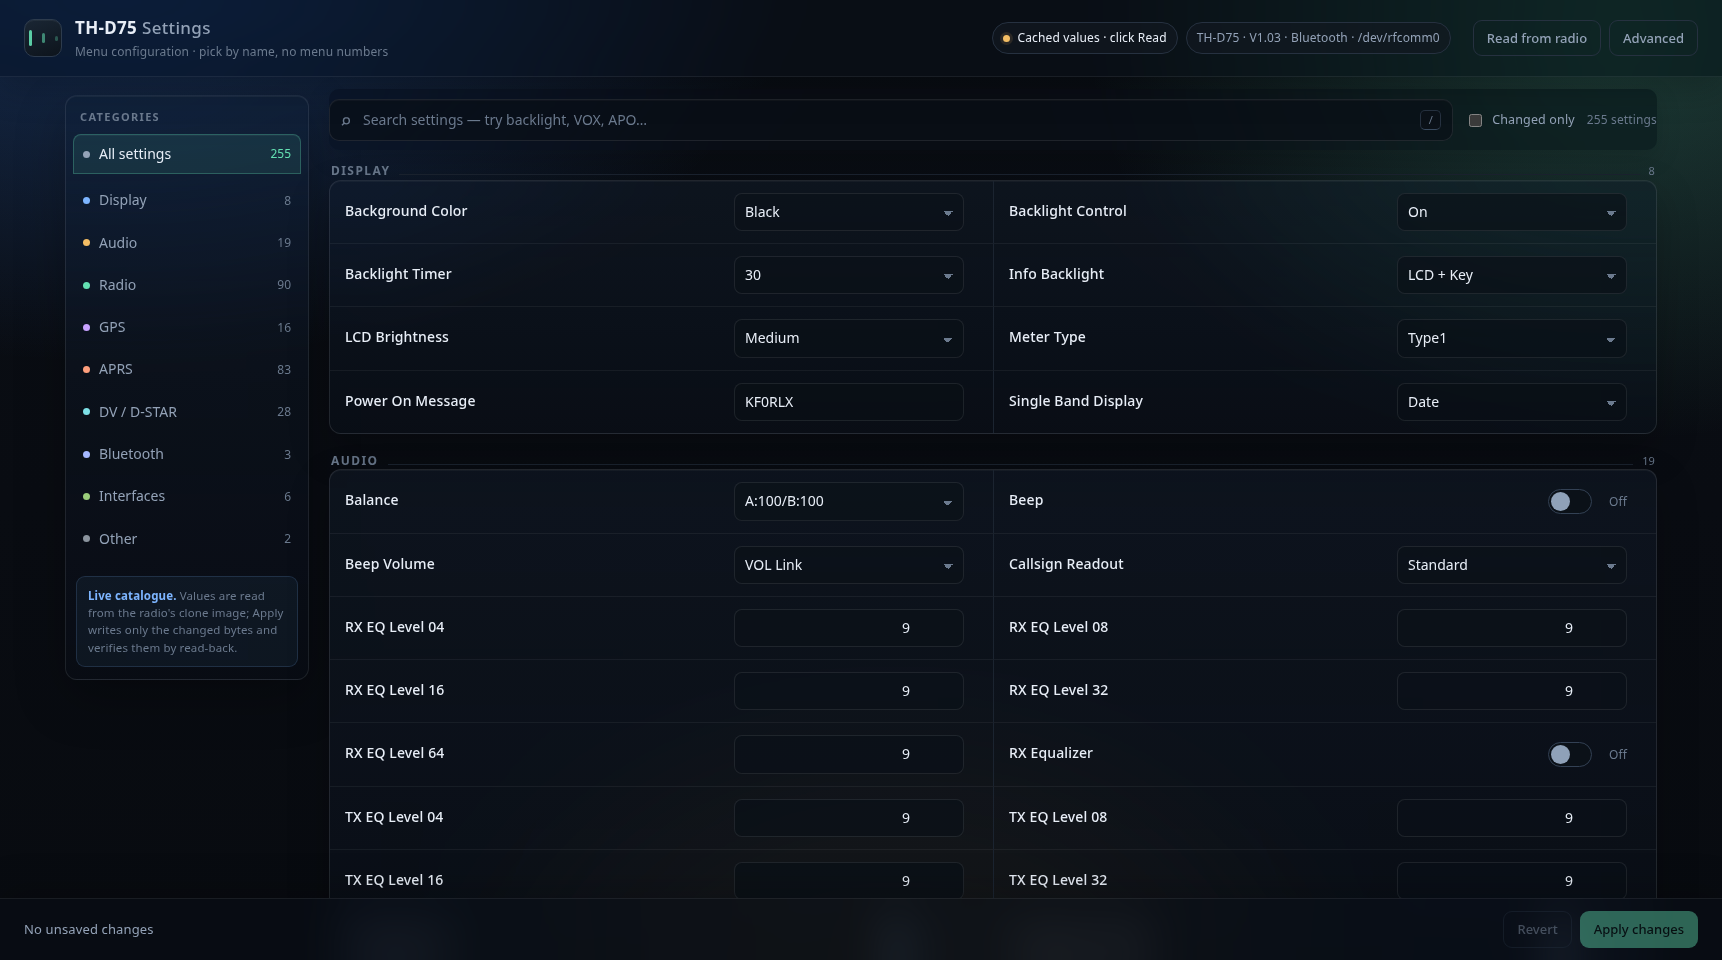
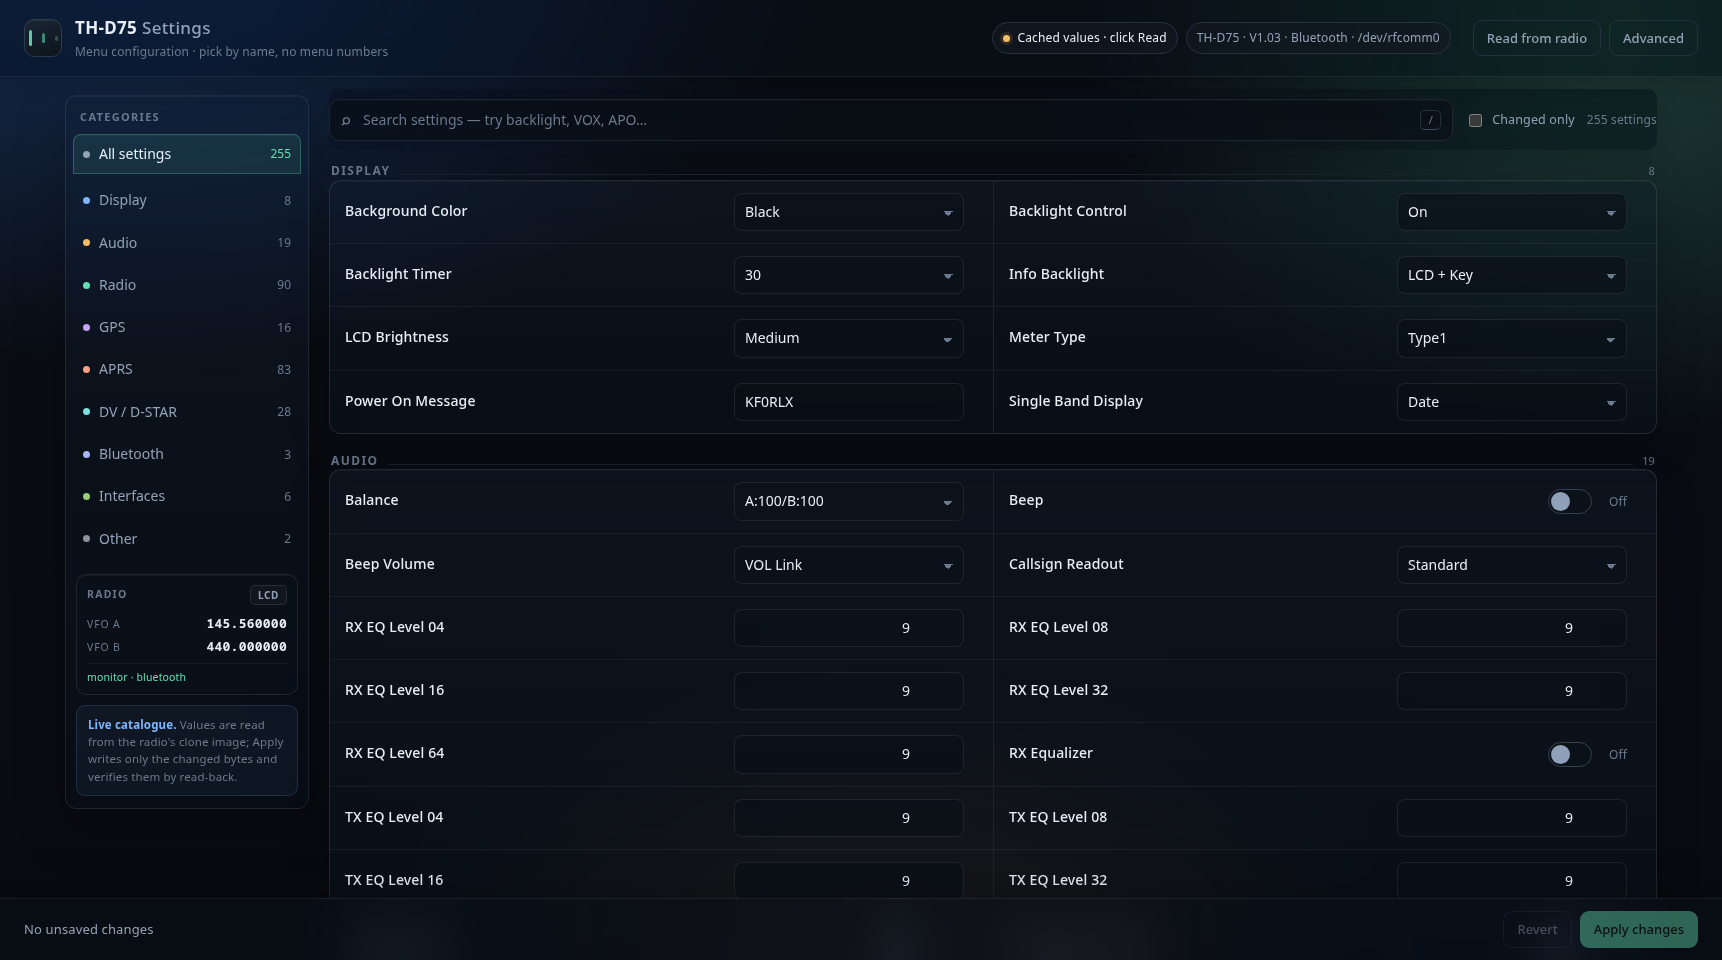
feat: add live VFO and LCD panel to settings UI

Changed region(s): [[0.0616, 0.5938, 0.1847, 0.7188], [0.0308, 0.75, 0.1539, 0.8125]]

diff --git a/settings-ui/app.js b/settings-ui/app.js
@@ -44,9 +44,16 @@ const els = {
   connectionChip: document.getElementById("connection-chip"),
   connectionText: document.getElementById("connection-text"),
   radioMeta: document.getElementById("radio-meta"),
-  exitSettings: document.getElementById("exit-settings")
+  exitSettings: document.getElementById("exit-settings"),
+  vfoA: document.getElementById("vfo-a"),
+  vfoB: document.getElementById("vfo-b"),
+  vfoStatus: document.getElementById("vfo-status"),
+  screenToggle: document.getElementById("screen-toggle"),
+  screenWrap: document.getElementById("screen-wrap"),
+  screenImg: document.getElementById("screen-img")
 };
 let sessionActive = false;
+let screenVisible = false;
 
 for (const setting of state.settings) {
   state.original.set(setting.id, cloneValue(setting.value));
@@ -477,6 +484,58 @@ async function loadFromApi() {
   }
 }
 
+function formatHz(raw) {
+  const n = Number(raw);
+  if (!Number.isFinite(n) || n <= 0) return "—";
+  return (n / 1000000).toFixed(6);
+}
+
+function setVfo(which, raw) {
+  const el = which === "a" ? els.vfoA : els.vfoB;
+  if (el) el.textContent = formatHz(raw);
+}
+
+function setVfoStatus(text, live) {
+  if (!els.vfoStatus) return;
+  els.vfoStatus.textContent = text;
+  els.vfoStatus.classList.toggle("live", Boolean(live));
+}
+
+async function pollMonitor() {
+  if (sessionActive) {
+    setVfoStatus("monitor paused", false);
+    return;
+  }
+  try {
+    const resp = await fetch("/api/monitor/state", {cache: "no-store"});
+    if (!resp.ok) throw new Error(`monitor ${resp.status}`);
+    const data = await resp.json();
+    const fields = data.fields || {};
+    setVfo("a", fields.vfo_a_hz?.value);
+    setVfo("b", fields.vfo_b_hz?.value);
+    setVfoStatus(data.connected ? `monitor · ${data.transport || "live"}` : "monitor offline", Boolean(data.connected));
+  } catch (error) {
+    setVfo("a", null);
+    setVfo("b", null);
+    setVfoStatus("monitor unavailable", false);
+  }
+}
+
+function refreshScreen() {
+  if (!screenVisible || !els.screenImg) return;
+  els.screenImg.src = `/api/monitor/screen.png?t=${Date.now()}`;
+}
+
+function toggleScreen() {
+  screenVisible = !screenVisible;
+  if (els.screenWrap) els.screenWrap.hidden = !screenVisible;
+  if (els.screenToggle) {
+    els.screenToggle.setAttribute("aria-pressed", String(screenVisible));
+    els.screenToggle.textContent = screenVisible ? "Hide" : "LCD";
+  }
+  if (screenVisible) refreshScreen();
+}
+
 async function pollStatus() {
   try {
     const resp = await fetch("/api/status", {cache: "no-store"});
@@ -594,6 +653,9 @@ if (params.get("changed") === "1") {
   state.changedOnly = true;
   els.changedOnly.checked = true;
 }
+if (params.get("screen") === "1") {
+  toggleScreen();
+}
 if (params.get("advanced") === "1") {
   state.advanced = true;
   document.body.classList.add("advanced");
@@ -607,7 +669,12 @@ window.addEventListener("pagehide", () => {
 });
 setInterval(pollStatus, 15000);
 
+els.screenToggle?.addEventListener("click", toggleScreen);
+setInterval(pollMonitor, 1000);
+setInterval(() => { if (screenVisible) refreshScreen(); }, 1000);
+
 renderCategories();
 renderList();
 updateChangeUI();
 loadFromApi();
+pollMonitor();

diff --git a/settings-ui/styles.css b/settings-ui/styles.css
@@ -355,3 +355,52 @@ input[type="number"] { text-align: right; padding-right: 38px; }
     background: rgba(18, 24, 33, .96);
   }
 }
+
+/* Live VFO / LCD panel */
+.radio-panel {
+  margin: 6px 10px 10px;
+  padding: 10px 10px 9px;
+  border: 1px solid rgba(255, 255, 255, .09);
+  border-radius: 10px;
+  background: rgba(10, 15, 22, .34);
+  -webkit-backdrop-filter: blur(16px) saturate(135%);
+  backdrop-filter: blur(16px) saturate(135%);
+  box-shadow: inset 0 1px 0 rgba(255, 255, 255, .04);
+}
+.radio-panel-head {
+  display: flex; align-items: center; justify-content: space-between;
+  margin-bottom: 7px;
+  color: var(--faint); font-size: 10.5px; font-weight: 650;
+  text-transform: uppercase; letter-spacing: .12em;
+}
+.mini-btn {
+  padding: 3px 7px; border-radius: 5px;
+  border: 1px solid rgba(255,255,255,.10);
+  background: rgba(255,255,255,.03);
+  color: var(--muted); font-size: 10px; line-height: 1.2;
+  text-transform: uppercase; letter-spacing: .06em;
+}
+.mini-btn:hover { color: var(--text); border-color: rgba(99,224,178,.35); }
+.mini-btn[aria-pressed="true"] { color: var(--accent); border-color: rgba(99,224,178,.4); }
+.vfo-row { display: flex; align-items: baseline; justify-content: space-between; gap: 8px; padding: 2px 0; }
+.vfo-label { color: var(--faint); font-size: 10.5px; letter-spacing: .08em; }
+.vfo-freq {
+  color: var(--text); font-family: ui-monospace, SFMono-Regular, Menlo, monospace;
+  font-size: 13px; font-weight: 600; font-variant-numeric: tabular-nums;
+  letter-spacing: .02em;
+}
+.radio-panel-status {
+  margin-top: 5px; padding-top: 6px; border-top: 1px solid rgba(255,255,255,.055);
+  color: var(--faint); font-size: 10.5px;
+}
+.radio-panel-status.live { color: var(--accent); }
+.screen-wrap { margin-top: 8px; }
+.screen-wrap img {
+  display: block; width: 100%; height: auto;
+  border: 1px solid rgba(255,255,255,.12); border-radius: 6px;
+  background: #05080c; image-rendering: pixelated;
+}
+@media (max-width: 820px) {
+  .radio-panel { margin: 8px 8px 10px; }
+  .screen-wrap img { max-width: 240px; margin: 0 auto; }
+}

diff --git a/settings-ui/index.html b/settings-ui/index.html
@@ -34,6 +34,20 @@
     <aside class="sidebar" aria-label="Categories">
       <div class="sidebar-head">Categories</div>
       <nav id="category-nav" class="category-nav"></nav>
+
+      <section class="radio-panel" aria-label="Live radio status">
+        <div class="radio-panel-head">
+          <span>Radio</span>
+          <button class="mini-btn" id="screen-toggle" type="button" aria-pressed="false">LCD</button>
+        </div>
+        <div class="vfo-row"><span class="vfo-label">VFO A</span><b class="vfo-freq" id="vfo-a">—</b></div>
+        <div class="vfo-row"><span class="vfo-label">VFO B</span><b class="vfo-freq" id="vfo-b">—</b></div>
+        <div class="radio-panel-status" id="vfo-status">monitor</div>
+        <div class="screen-wrap" id="screen-wrap" hidden>
+          <img id="screen-img" alt="Live TH-D75 LCD" width="240" height="180">
+        </div>
+      </section>
+
       <div class="sidebar-note">
         <strong>Live catalogue.</strong> Values are read from the radio's clone
         image; Apply writes only the changed bytes and verifies them by read-back.

diff --git a/settings-ui/server.py b/settings-ui/server.py
@@ -19,6 +19,7 @@ import time
 from datetime import datetime
 from http.server import SimpleHTTPRequestHandler, ThreadingHTTPServer
 from urllib.parse import urlparse
+import urllib.request
 
 import serial
 
@@ -55,6 +56,7 @@ def _detect_transport(path: str) -> str:
 TRANSPORT = _detect_transport(SERIAL)
 AUTO_RELEASE = os.environ.get("D75_AUTO_RELEASE", "1").strip().lower() not in ("0", "false", "no")
 MONITOR_UNIT = os.environ.get("D75_MONITOR_UNIT", "d75mon")
+MONITOR_URL = os.environ.get("D75_MONITOR_URL", "http://127.0.0.1:8099").rstrip("/")
 HOST = os.environ.get("D75SETTINGS_HOST", "127.0.0.1")
 PORT = int(os.environ.get("D75SETTINGS_PORT", "8098"))
 IDLE_RELEASE_SEC = int(os.environ.get("D75SETTINGS_IDLE", "300"))
@@ -607,6 +609,19 @@ class Handler(SimpleHTTPRequestHandler):
         self.end_headers()
         self.wfile.write(body)
 
+    def _proxy_monitor(self, path: str, content_type: str, timeout: float = 3.0) -> None:
+        try:
+            with urllib.request.urlopen(MONITOR_URL + path, timeout=timeout) as resp:
+                body = resp.read()
+        except Exception as exc:  # noqa: BLE001
+            return self._json(503, {"error": f"monitor unavailable: {exc}"})
+        self.send_response(200)
+        self.send_header("Content-Type", content_type)
+        self.send_header("Content-Length", str(len(body)))
+        self.send_header("Cache-Control", "no-store")
+        self.end_headers()
+        self.wfile.write(body)
+
     def _status(self) -> dict:
         return {"sessionActive": SESSION is not None and SESSION.active,
                 "monitorActive": monitor_active(),
@@ -619,6 +634,10 @@ class Handler(SimpleHTTPRequestHandler):
     def do_GET(self):  # noqa: N802
         global LAST_ERROR
         path = urlparse(self.path).path
+        if path == "/api/monitor/state":
+            return self._proxy_monitor("/state", "application/json; charset=utf-8")
+        if path == "/api/monitor/screen.png":
+            return self._proxy_monitor("/screen.png", "image/png", timeout=8.0)
         if path == "/api/status":
             return self._json(200, self._status())
         if path == "/api/catalog":

diff --git a/settings-ui/README.md b/settings-ui/README.md
@@ -47,12 +47,21 @@ High-risk settings require explicit confirmation.
 GET  /api/status        -> {sessionActive, monitorActive, serialPresent, transport, serialPath, busy, lastError}
 GET  /api/catalog       -> {generated, schema_version, settings:[...]}
 GET  /api/values        -> {model, firmware, values:{id:value}, updatedAt}
+GET  /api/monitor/state -> proxy of d75mon /state (VFO A/B + status)
+GET  /api/monitor/screen.png -> proxy of d75mon /screen.png (90×? LCD frame)
 GET  /api/read          -> enter/read settings mode; {values, readAt, settingsMode}
 POST /api/apply         -> {changes:[{id,value}], confirmHighRisk}
 POST /api/session/stop  -> leave settings mode; one USB reset, monitor restarted
 ```
 
 A process lock serializes operations; a second request gets HTTP 409.
+
+## Live VFO / LCD
+
+The sidebar Radio panel polls `/api/monitor/state` and shows VFO A/B generated
+from `d75mon`'s DDR fields. The **LCD** button toggles `/api/monitor/screen.png`
+inside the page. Both endpoints are proxied through the settings server, so only
+port 8098 needs to be tunneled.
 
 ## Bluetooth
 
